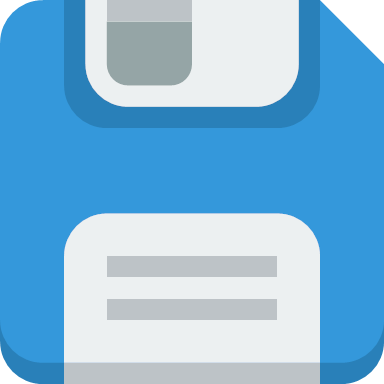
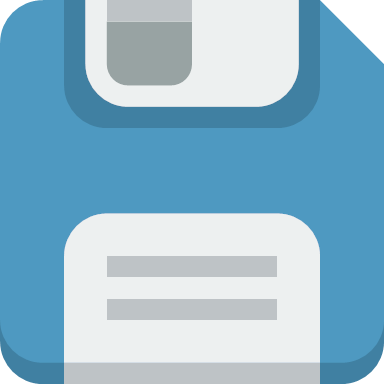
add info button, background

diff --git a/dev/scripts/core/InfoButton/InfoForm.js b/dev/scripts/core/InfoButton/InfoForm.js
@@ -1,0 +1,45 @@
+import { createElement } from "../Utils.js";
+
+export class InfoForm {
+  static Create() {
+    const infoForm = createElement("div", "info-form --collapse");
+    addFunctionalities(infoForm);
+    addText(infoForm);
+
+    return infoForm;
+  }
+}
+
+function addFunctionalities(infoForm) {
+  infoForm.toggle = function () {
+    infoForm.classList.toggle("--collapse");
+  };
+}
+
+function addText(infoForm) {
+  const webAppName = createElementWithTextContent(
+    "p",
+    "",
+    "Tabi Tab - Personal Tab List."
+  );
+
+  const authorText = createElementWithTextContent(
+    "p",
+    "",
+    "Made by Yotsubox (2020)"
+  );
+
+  const instruction = createElementWithTextContent(
+    "pre",
+    "",
+    "To change background:\n1. Go to ./dev/images.\n2. Replace content of 'bg.png' with your desire image.\n3. Recompile."
+  );
+
+  infoForm.append(webAppName, authorText, instruction);
+}
+
+function createElementWithTextContent(tagName, className, textContent) {
+  const elem = createElement(tagName, className);
+  elem.textContent = textContent;
+  return elem;
+}

diff --git a/dev/css/style.css b/dev/css/style.css
@@ -23,29 +23,45 @@ body {
   margin: 0;
 }
 
+.--background {
+  background: no-repeat center / cover url("../images/bg.png");
+}
+
 /* HEADER */
 #header {
   height: 3em;
   background-color: rgb(85, 116, 126);
   color: white;
 
-  padding: 0 0.5rem;
+  padding: 0 0.8rem 0 0.5rem;
+  box-shadow: 0px 10px rgba(0, 0, 0, 0.2);
 }
 
 .header--title {
+  font-family: var(--default-font-family);
   font-size: 2em;
   margin: 0;
+  user-select: none;
 }
 
 .header__item {
-  /* D */
-  /* background-color: red; */
-
-  margin: 0.5rem 0.2rem;
+  margin: 0.5rem 0 0 0.7rem;
 }
 
+.info-btn,
 .save-btn {
   max-height: 2rem;
+}
+
+.info-form {
+  font-family: var(--default-font-family);
+  font-size: 1.2rem;
+  position: fixed;
+  background-color: var(--list-default-background-color);
+  outline: var(--default-focus-outline-color) 4px solid;
+  padding: 1rem;
+  right: 20px;
+  top: 4rem;
 }
 
 .new-list-btn {
@@ -290,6 +306,10 @@ body {
 /* UTILS */
 .--gray-scale {
   filter: grayscale(100%);
+}
+
+.--low-opacity {
+  opacity: 0.7;
 }
 
 .--collapse {

diff --git a/dev/scripts/main.js b/dev/scripts/main.js
@@ -2,6 +2,7 @@ import { NewTabListButton } from "./core/NewTabListButton.js";
 import { LocalStorage } from "./core/SaveSystem.js";
 import { saveWhenCtrlS, saveEveryTenSec } from "./core/Events.js";
 import { SaveButton } from "./core/SaveButton.js";
+import { InfoButton } from "./core/InfoButton.js";
 
 //BASIC FUNCTIONALITIES.
 saveWhenCtrlS();
@@ -11,6 +12,8 @@ saveEveryTenSec();
 export const saveButton = SaveButton.FromExistingElem(
   document.querySelector(".save-btn")
 );
+InfoButton.FromExistingElem(document.querySelector(".info-btn"));
+
 export const tabListSection = document.querySelector(".tab-list-section");
 export const listContainer = document.querySelector(".list-container");
 export const addListButton = NewTabListButton.Create(tabListSection);

diff --git a/dev/scripts/core/SaveButton/Init/addFunctionalities.js b/dev/scripts/core/SaveButton/Init/addFunctionalities.js
@@ -8,11 +8,13 @@ export function addFunctionalities(saveButton) {
    * toggle gray scale for image.
    * @param {boolean} state turn on or off grayScale (true/false)
    */
-  saveButton.toggleGrayScale = function (state) {
-    // DEBUG
-    saveButton.classList.remove("--gray-scale");
-
-    if (state) saveButton.classList.add("--gray-scale");
-    else saveButton.classList.remove("--gray-scale");
+  saveButton.setSavable = function (state) {
+    if (state) {
+      saveButton.classList.add("--gray-scale");
+      saveButton.classList.add("--low-opacity");
+    } else {
+      saveButton.classList.remove("--gray-scale");
+      saveButton.classList.remove("--low-opacity");
+    }
   };
 }

diff --git a/dev/index.html b/dev/index.html
@@ -7,16 +7,17 @@
     <link href="./css/fonts.css" rel="stylesheet" />
     <title>Tabi Tab</title>
   </head>
-  <body>
+  <body class="--background">
     <script defer type="module" src="./scripts/main.js"></script>
 
     <div id="header">
       <div class="flex-group left">
-        <h1 class="header__item header--title">Tabi Tab</h1>
+        <h1 class="header__item header--title">Tabi Tab!</h1>
       </div>
 
       <div class="flex-group right">
         <img class="header__item save-btn" src="./images/save icon.png" />
+        <img class="header__item info-btn" src="./images/info icon.png" />
       </div>
     </div>
 

diff --git a/dev/scripts/core/InfoButton.js b/dev/scripts/core/InfoButton.js
@@ -1,0 +1,25 @@
+import { InfoForm } from "./InfoButton/InfoForm.js";
+
+export class InfoButton {
+  static FromExistingElem(infoButton) {
+    initProperties(infoButton);
+    addFunctionalities(infoButton);
+    addEventListeners(infoButton);
+  }
+}
+
+function initProperties(infoButton) {
+  infoButton._info = InfoForm.Create();
+
+  document.body.append(infoButton._info);
+}
+
+function addFunctionalities(infoButton) {
+  infoButton.showInfo = function () {
+    this._info.toggle("--collapse");
+  };
+}
+
+function addEventListeners(infoButton) {
+  infoButton.addEventListener("click", infoButton.showInfo);
+}

diff --git a/dev/scripts/core/SaveButton/Init/addEventListeners.js b/dev/scripts/core/SaveButton/Init/addEventListeners.js
@@ -3,7 +3,7 @@ import { ChangesDetector, LocalStorage } from "../../SaveSystem.js";
 export function addEventListeners(saveButton) {
   ChangesDetector.addEventListener(
     "onChange",
-    saveButton.toggleGrayScale,
+    saveButton.setSavable,
     saveButton,
     false
   );
@@ -11,7 +11,7 @@ export function addEventListeners(saveButton) {
   //when saved, remove gray scale.
   ChangesDetector.addEventListener(
     "onSave",
-    saveButton.toggleGrayScale,
+    saveButton.setSavable,
     saveButton,
     true
   );

diff --git a/dev/scripts/core/SaveButton.js b/dev/scripts/core/SaveButton.js
@@ -6,6 +6,7 @@ export class SaveButton {
    */
   static FromExistingElem(elem) {
     elem.classList.add("--gray-scale");
+    elem.classList.add("--low-opacity");
 
     addFunctionalities(elem);
     addEventListeners(elem);
